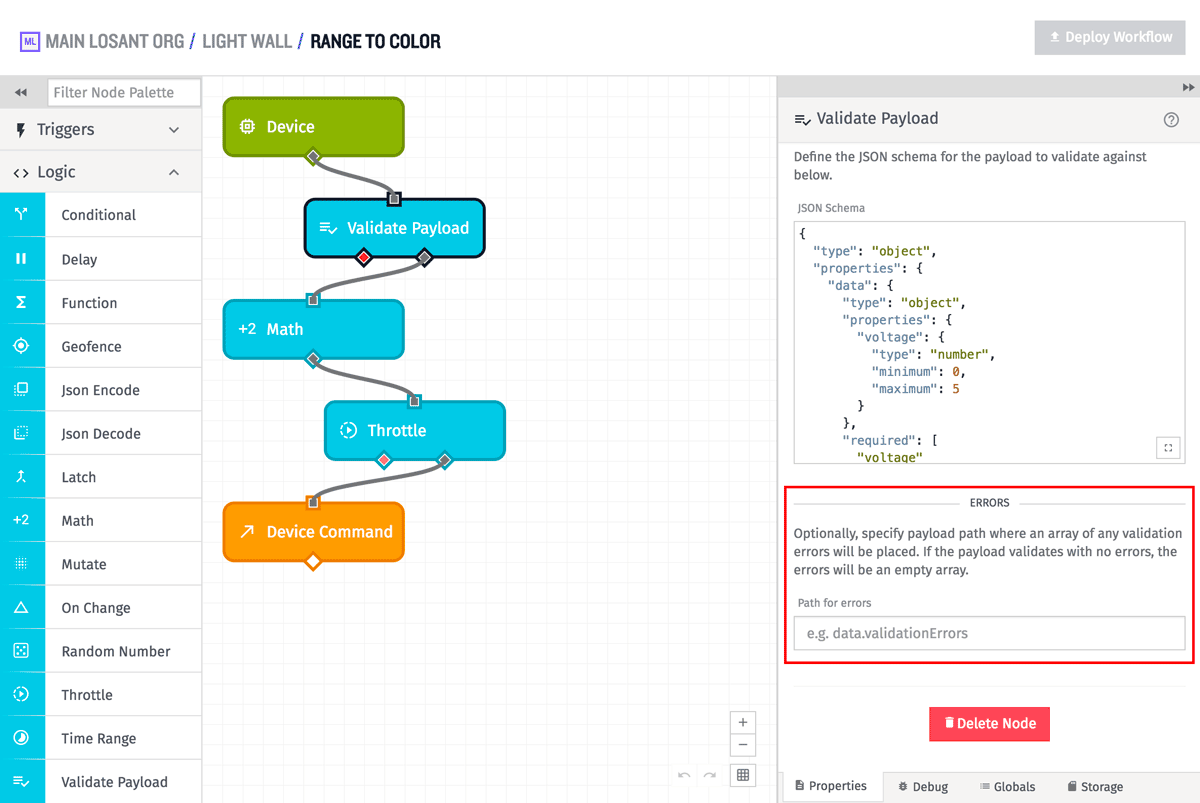
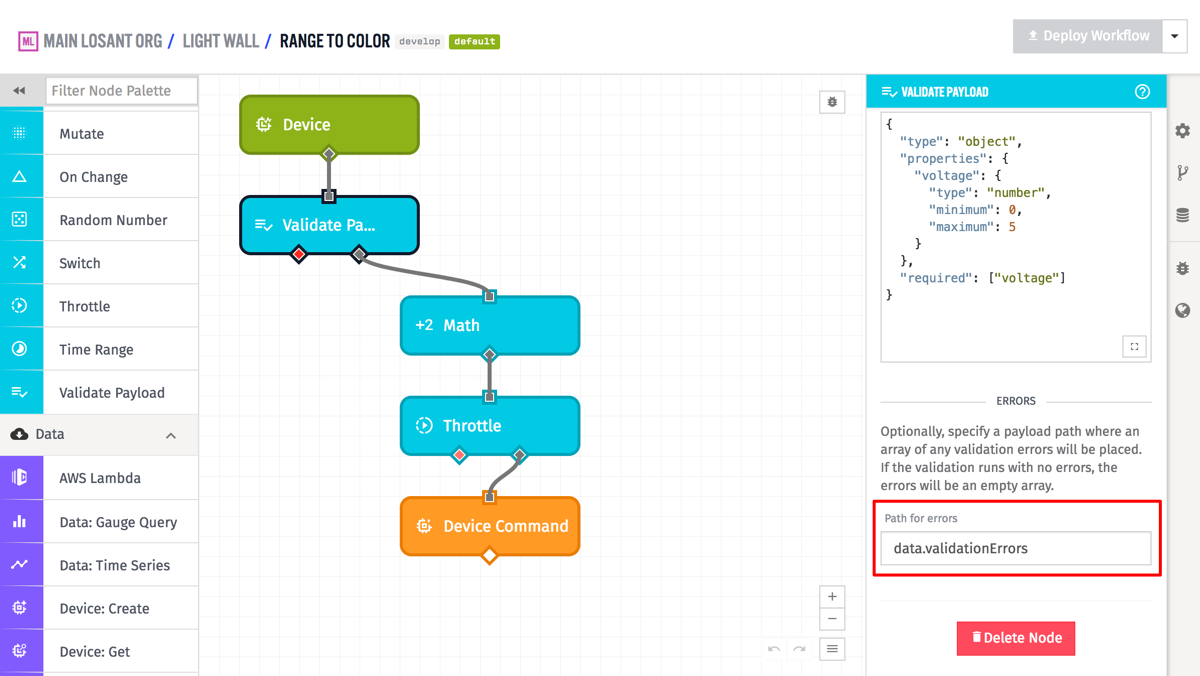
update validate payload node docs

diff --git a/docs/workflows/logic/validate-payload.md b/docs/workflows/logic/validate-payload.md
@@ -1,39 +1,32 @@
 # Validate Payload Node
 
-The validate payload node allows a workflow check the current payload against a JSON schema, and branch depending on if the payload passes validation or not.
+The validate payload node allows a workflow check the part or all of current payload against a JSON schema, and branch depending on if the payload passes validation or not.
 
 ![Validate Payload Node](/images/workflows/logic/validate-payload-node.png "Validate Payload Node")
 
 ## Configuration
 
-The validate payload node is configured using a [JSON Schema](http://spacetelescope.github.io/understanding-json-schema/index.html) definition. The current payload of the workflow is validated against the given JSON schema, and if it passes validation the route on the right out of the node is taken. If it fails validation, the route on the left out of the node is taken.
+The validate payload node is configured using a [JSON Schema](http://spacetelescope.github.io/understanding-json-schema/index.html) definition. A part of or all of the current payload of the workflow is validated against the given JSON schema, and if it passes validation the route on the right out of the node is taken. If it fails validation, the route on the left out of the node is taken.
 
 ![Validate Payload Example](/images/workflows/logic/validate-payload-example.png "Validate Payload Example")
 
-Here is the full schema from the above screenshot in an easier to read form:
+In the above example, the node is validating the `data` property of the payload against a scheme. Here is the full schema from the above screenshot in an easier to read form:
 
 ```json
 {
   "type": "object",
   "properties": {
-    "data": {
-      "type": "object",
-      "properties": {
-        "voltage": {
-          "type": "number",
-          "minimum": 0,
-          "maximum": 5
-        }
-      },
-      "required": [
-        "voltage"
-      ]
+    "voltage": {
+      "type": "number",
+      "minimum": 0,
+      "maximum": 5
     }
-  }
+  },
+  "required": ["voltage"]
 }
 ```
 
-In the above example, the workflow will follow the route on the right out of the validate payload node and proceed to the math node only if the payload has a `data.voltage` field which has a number between 0 and 5.
+The workflow will follow the route on the right out of the validate payload node and proceed to the math node only if the payload has a `data.voltage` field whose value is a number between 0 and 5.
 
 So the following payload would pass validation, and the workflow would take the route on the right and move on to the math node:
 
